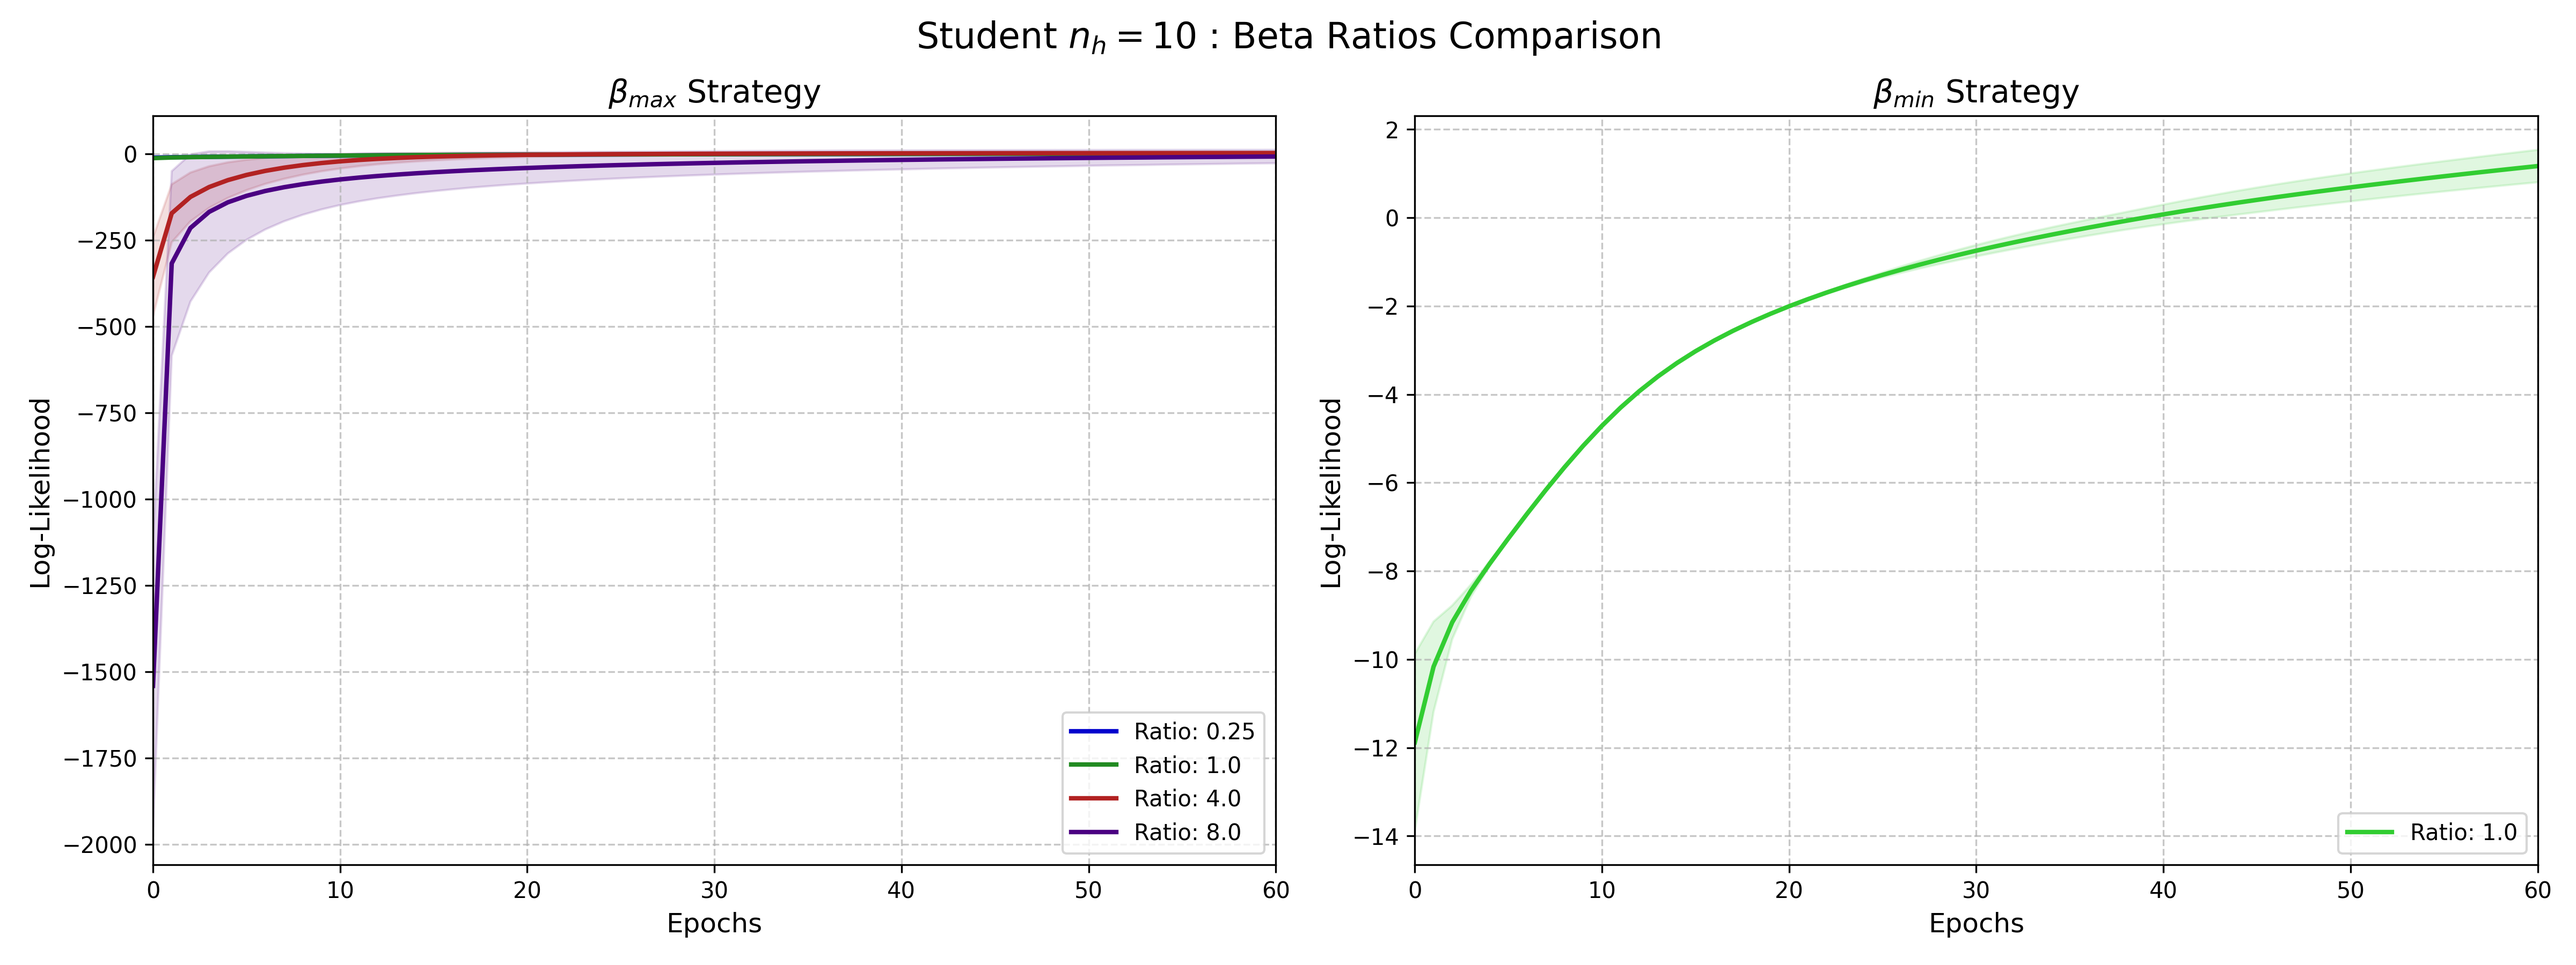
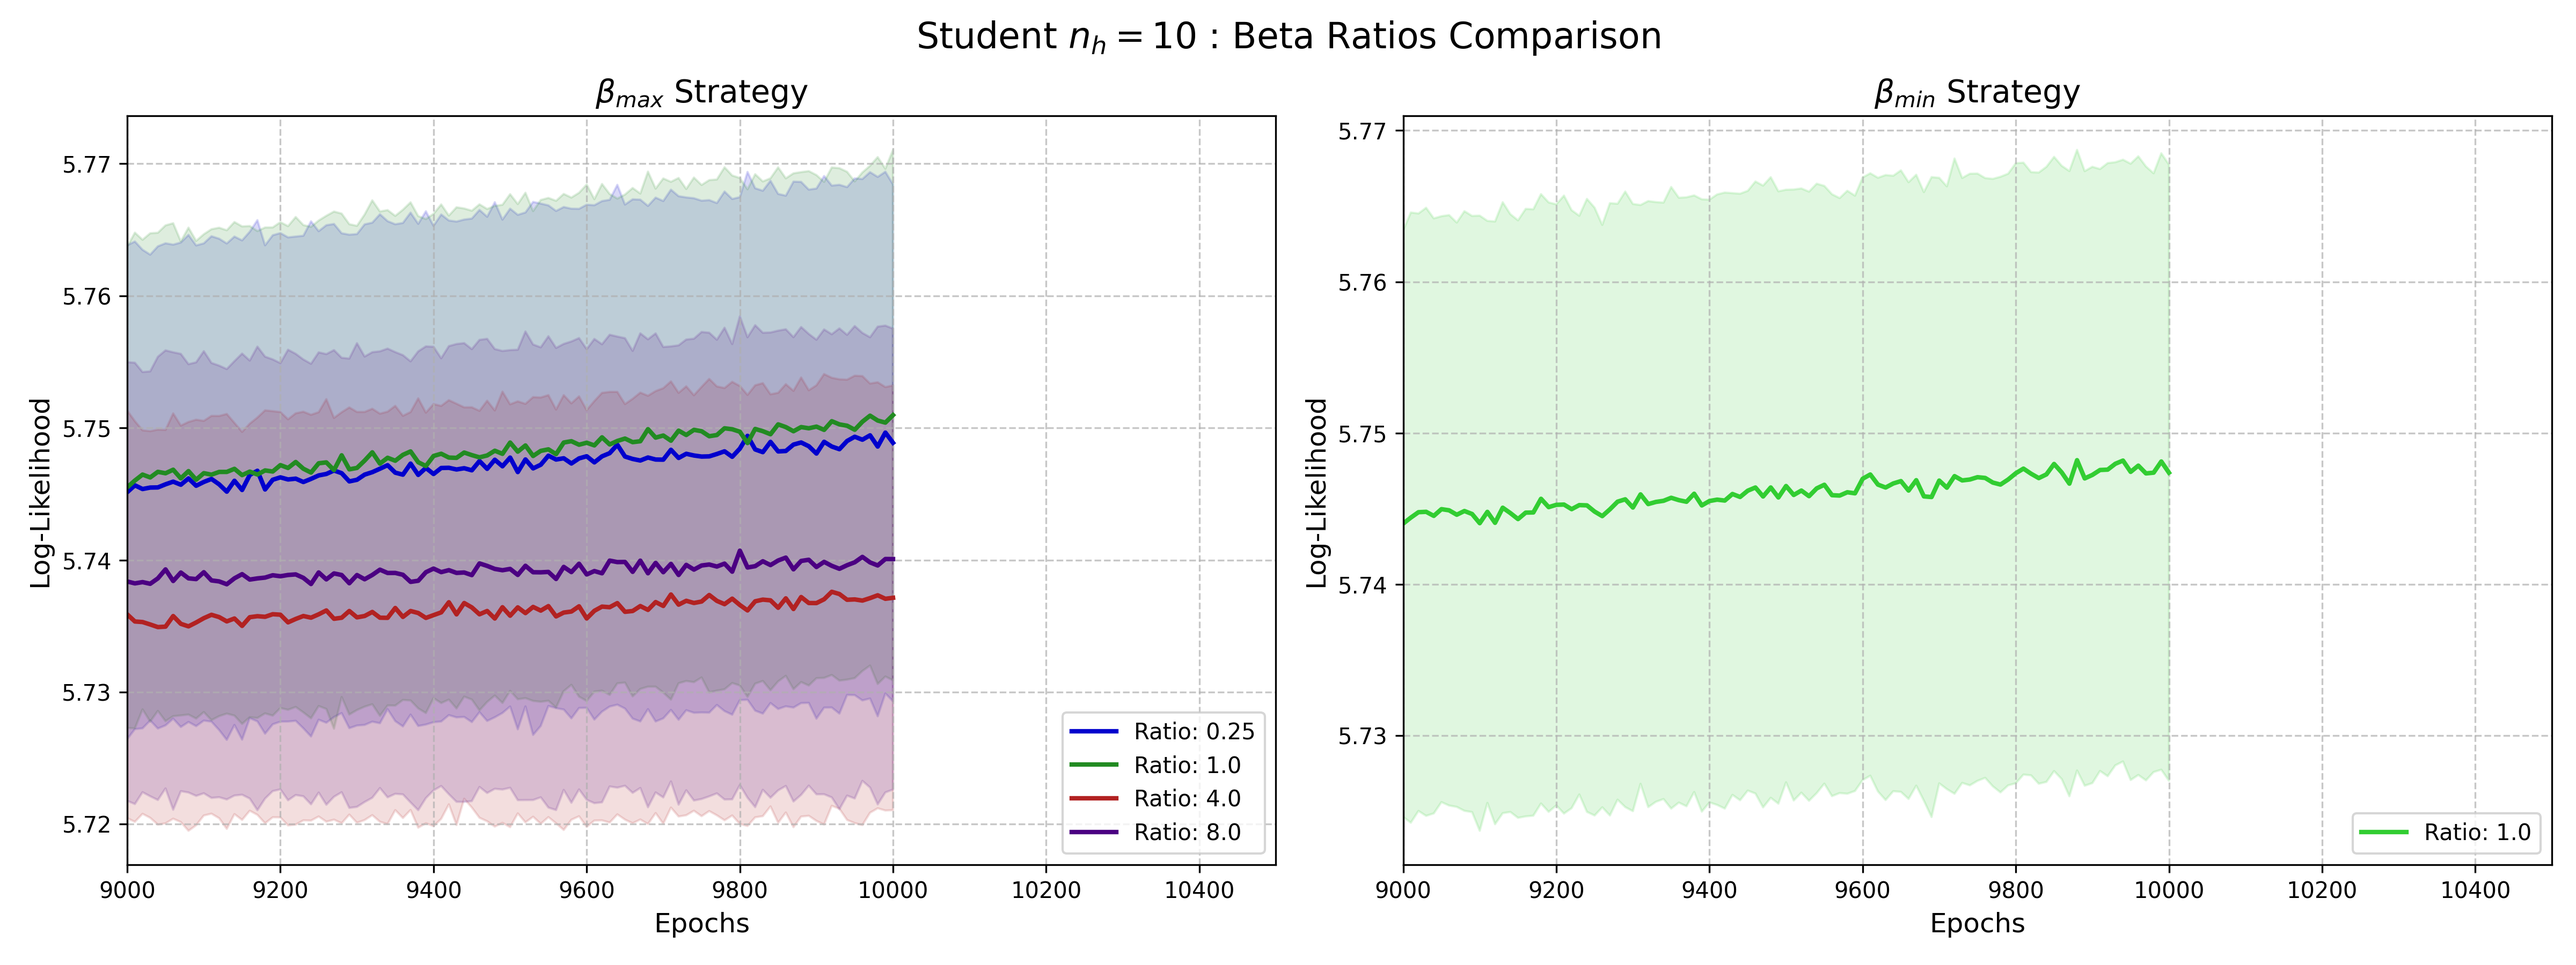
2026/5/25

diff --git a/training_GBRBM/results_visualization_c=-5/plot_ll_c=-5.py b/training_GBRBM/results_visualization_c=-5/plot_ll_c=-5.py
@@ -12,7 +12,7 @@ B_TYPES = ["max", "min"]   # 比較するβのタイプ
 B_RATIOS = [0.25, 1.0, 4.0, 8.0] # 比較するリレーション倍率
 
 # 2. ★表示範囲の指定設定 (3パターン対応)
-X_RANGE_MODE = 'to_end' #'all', 'from_start', 'to_end'の中から選択 
+X_RANGE_MODE = 'from_start' #'all', 'from_start', 'to_end'の中から選択 
 X_START = 9000
 X_END = 60
 Y_MARGIN = 0.05
